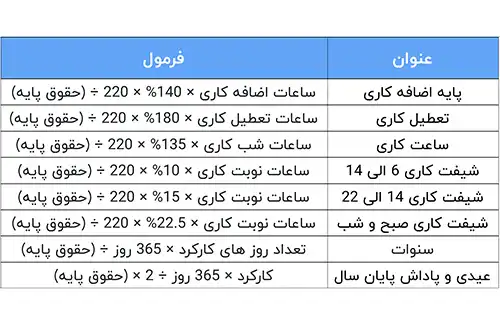
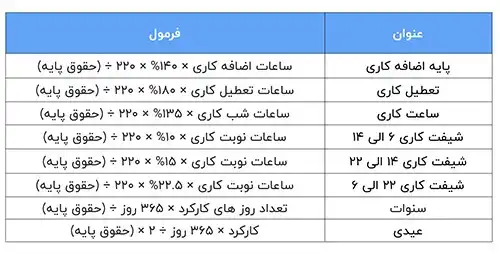
بازخوانی و ویرایش محتوا + عکس

diff --git a/Financial/WhatIsPayroll/PayrollFormula.md b/Financial/WhatIsPayroll/PayrollFormula.md
@@ -1,9 +1,9 @@
 ---
-title: فرمول های محاسبه حقوق و دستمزد
-author: سمانه رشوند  
+title: فرمول های مورد استفاده در محاسبه حقوق و دستمزد
+author: سمانه رشوند
 description: فرمولهایی که برای محاسبه حقوق و دستمزد استفاده می شود.
-dateModified: 2024/05/26
-datePublished: 2022/07/31 
+dateModified: 2024/05/28
+datePublished: 2022/07/31
 uid: Financial/WhatIsPayroll/PayrollFormula
 ---
 <blockquote style="background-color:#eeeefc; padding:0.5rem">
@@ -17,14 +17,15 @@ uid: Financial/WhatIsPayroll/PayrollFormula
     <li>فرمول محاسبه سنوات</li>
     <li>فرمول شب کاری</li>
     <li>فرمول محاسبه نوبت کاری</li>
-    <li>فرمول محاسبه کسر کار ماه</li>
-    <li>حق اولاد چیست و چگونه محاسبه می شود</li>
+    <li>فرمول محاسبه کسر کار</li>
+    <li>حق اولاد چیست؟ و چگونه محاسبه می شود؟</li>
     <li>فرمول محاسبه حق اولاد</li>
   </ul>
 </details>
 
 </blockquote>
 
+![جدول فرمول های محاسبه حقوق و دستمزد](./Images/TableOfSalaryFormulas.webp)
 
  محاسبه درست حقوق و دستمزد کارکنان، یکی از مهمترین وظایف بخش حسابداری سازمانهاست. رعایت عدالت در پرداختها و دقت در محاسبات، نقش مهمی در انگیزه و رضایت شغلی کارکنان دارد. 
 
@@ -36,14 +37,14 @@ uid: Financial/WhatIsPayroll/PayrollFormula
 
 ## انواع فرمول های حقوق و دستمزد
 
-محاسبهی حقوق، بر اساس موارد متفاوتی تعیین میشود. در ادامه به بررسی 3 فرمول پرکاربرد میپردازیم:
+محاسبهی حقوق، بر اساس موارد متفاوتی تعیین میشود. در ادامه به بررسی فرمول های پرکاربرد میپردازیم:
 
-![فرمول محاسبه حقوق و دستمزد](./Images/TableOfSalaryFormulas.webp)
+### 1. فرمول محاسبه حقوق پایه
 
-### فرمول محاسبه حقوق پایه
 کارکرد ماه × 30 ÷ حقوق پایه در حکم
 
-### فرمول اضافه کاری
+### 2. فرمول اضافه کاری
+
 تعریف اضافه کاری یعنی کاری که بیش از ساعت کار قانونی (8 ساعت در روز و 44 ساعت در هفته) انجام شود. 
 
 مبنای محاسبه اضافه کار به این صورت است که دستمزد پرسنل، در هر ساعت اضافه کاری 40 درصد بیشتر از ساعت کاری عادی محاسبه میشود. 
@@ -52,24 +53,25 @@ uid: Financial/WhatIsPayroll/PayrollFormula
 
 <p style="text-align:center">ساعات اضافه کاری × ۱.۴ × ۲۲۰ ÷ (حقوق پایه) = فرمول اضافه کاری</p>
 
-### فرمول عیدی
+### 3. فرمول عیدی
 عیدی یکی از اصلیترین حقوق پرسنل است که پس از اتمام سال، کارفرما باید مبلغی دو برابر حقوق پایه کارکنانش، به آنها پرداخت کند. 
 
 <p style="text-align:center">
-پایه حقوق روزانه × 60 = حداقل عیدی 1402
+پایه حقوق روزانه × 60 = حداقل عیدی 1403
 <br>
-پایه حقوق روزانه × 90 = حداکثر عیدی 1402
+پایه حقوق روزانه × 90 = حداکثر عیدی 1403
 </p>
 
-### فرمول محاسبه سنوات
+### 4. فرمول محاسبه سنوات
 
 روزهای کارکرد سنوات خدمت × 365 ÷ حقوق پایه در حکم
 
 <blockquote style="background-color:#f5f5f5; padding:0.5rem">
-<p><strong>بیشتر بخوانید: <a href="https://www.hooshkar.com/Wiki/Payroll/EidTax" target="_blank">فرمول محاسبه عیدی و سنوات
+<p><strong>بیشتر بخوانید: <a href="https://www.hooshkar.com/Wiki/Payroll/EidTax" target="_blank">نحوه محاسبه عیدی، سنوات و مالیات عیدی
 </a></p></strong></blockquote>
 
-### فرمول شب کاری
+### 5. فرمول شب کاری
+
 ساعت کاری عادی کارمندان از شنبه تا پنجشنبه، 7 ساعت و 20 دقیقه در روز است. این 7 ساعت و 20 دقیقه از 6 صبح شروع میشود و تا 22 شب ادامه دارد که روز کاری محسوب میشود.
 به کارکنانی که از ساعت 22 شب الی 6 بامداد کار میکنند، شب کار گفته میشود. 
  
@@ -81,26 +83,22 @@ uid: Financial/WhatIsPayroll/PayrollFormula
 کارکرد شب کاری × 100 ÷ 35 × (220 ÷ حقوق پایه در حکم) = شب کاری
 </p>
 
-### فرمول محاسبه نوبت کاری
+### 6. فرمول محاسبه نوبت کاری
 
-_فرمول حقوق و دستمزد شیفت کاری 6 الی 14 بعد از ظهر_
+**شیفت کاری 6 الی 14 بعد از ظهر:** کارکرد نوبت کاری 10% × 100 ÷ 10 × (220 ÷ حقوق پایه در حکم)
 
-(کارکرد نوبت کاری 10% × 100 ÷ 10 × (220 ÷ حقوق پایه در حکم))
+**شیفت کاری 14 الی 22 شب:** کارکرد نوبت کاری 15% × 100 ÷ 15 × (220 ÷ حقوق پایه در حکم)
 
-_فرمول حقوق و دستمزد شیفت کاری 14 الی 22 شب_
+### 7. فرمول محاسبه کسر کار
 
-(کارکرد نوبت کاری 15% × 100 ÷ 15 × (220 ÷ حقوق پایه در حکم))
-
-
-### فرمول محاسبه کسر کار ماه
 کسر کار ماه × (2 × 220   ÷ حقوق پایه در حکم)
 
 <blockquote style="background-color:#f5f5f5; padding:0.5rem">
 <p><strong>بیشتر بخوانید: <a href="https://www.hooshkar.com/Wiki/Financial/TheBestPayrollSoftware" target="_blank">معرفی بهترین نرم افزارهای حقوق و دستمزد</a></p></strong></blockquote>
 
-## حق اولاد چیست و چگونه محاسبه می شود
+## حق اولاد چیست و چگونه محاسبه می شود؟
 
-طبق قانون کار، باید مبلغی به تمام کارکنانی که فرزند دارند به عنوان کمک هزینه، پرداخت شود. حق اولاد به افرادی تعلق میگیرد که بیمه شدهی تامین اجتماعی باشند. این حق، مختص جنسیت خاصی نیست؛ هم آقایان و هم خانمهای دارای فرزند میتوانند از آن استفاده کنند.
+طبق قانون کار، باید مبلغی به تمام کارکنانی که فرزند دارند به عنوان کمک هزینه، پرداخت شود. حق اولاد به افرادی تعلق میگیرد که بیمه شدهی تامین اجتماعی باشند. این حق، مختص جنسیت خاصی نیست؛ هم آقایان و هم خانمهای شاغل دارای فرزند میتوانند از آن استفاده کنند.
 
 ![نحوه محاسبه حق اولاد](./Images/ChildBenefitsSalary.webp)
 
@@ -113,6 +111,7 @@ _فرمول حقوق و دستمزد شیفت کاری 14 الی 22 شب_
 </p>
 
 ---
+
  عزیزانی که در حوزه حسابداری و حقوق و دستمزد فعالیت میکنند، دورههای آموزشی <a href="https://www.aparat.com/Hooshkar_Pardaz" target="_blank">کانال آپارات هوشکار</a> در این زمینه، فرصت مناسبی برای ارتقای دانش شماست. 
 
 با شرکت در این دورهها به روشی ساده و کاربردی، ضمن آشنایی با آخرین قوانین و مقررات، فرمولهای لازم برای محاسبات حقوق و دستمزد را فرا خواهید گرفت.
